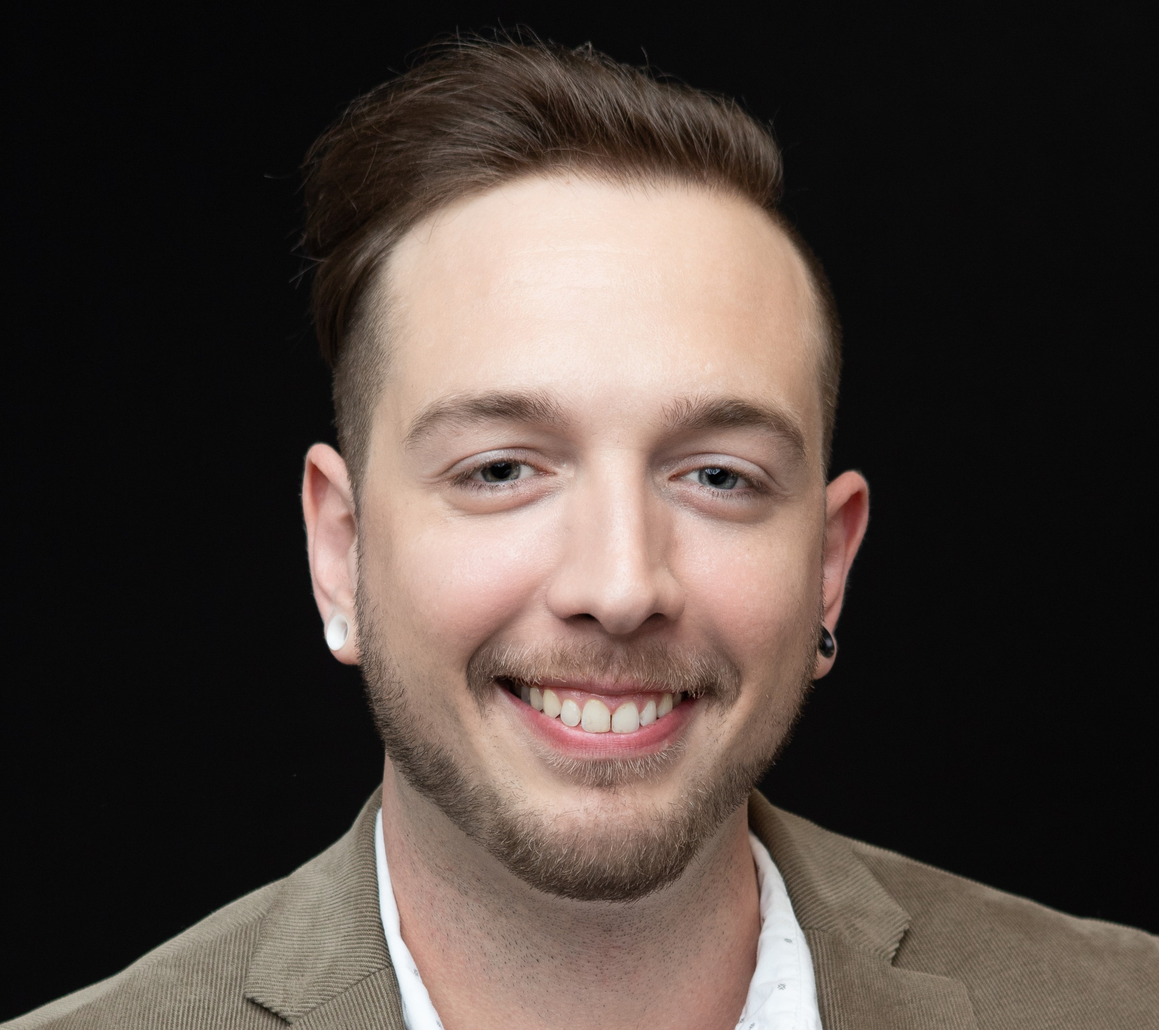
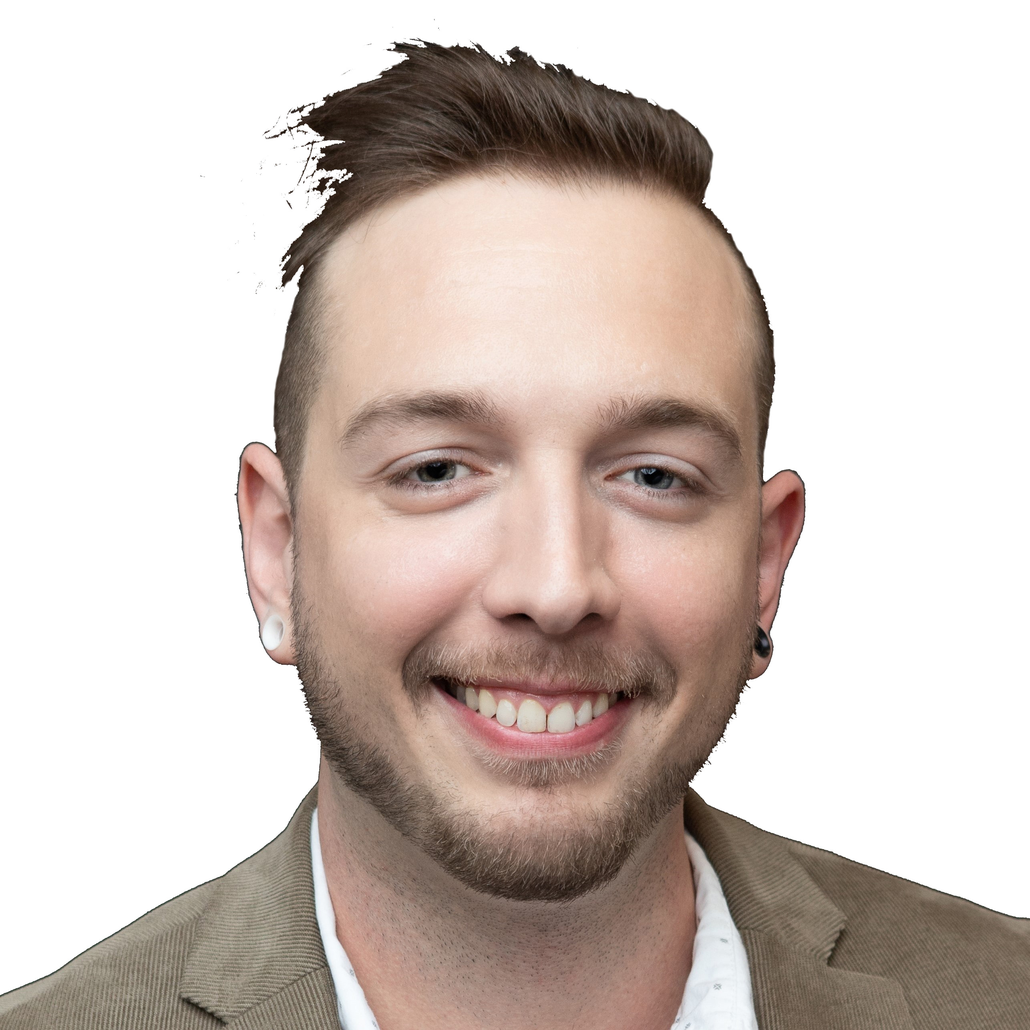
started introduction and further styling

diff --git a/docs/main.css b/docs/main.css
@@ -7,9 +7,9 @@ html {
     font: 20px/1 Lato, sans-serif;
     color: whitesmoke;
     --theme-color-orange: #ff914d;
+    --theme-color-orange_dark: #b36739;
     --theme-color-blue: #007bb6;
     --theme-color-light-blue: #38b6ff;
-    --theme-color-orange80: #ff914dbb;
     --theme-color-blue80: #007cb6b6;
     --theme-color-light-blue80: #38b6ffbb;
     --theme-color-white: rgba(255, 255, 255, 0.781);
@@ -22,22 +22,41 @@ body {
     background-size: auto;
     /* overflow: hidden; */
 }
+h1 {
+    text-align: center;
+    font-size: 2rem;
+    /* color: var(--theme-color-orange); */
+    color: white;
+    margin-bottom: 3.2rem;
+    letter-spacing: .6rem;
+    text-shadow: 0 0 30px whitesmoke;
+}
 
 .background {
     content: "";
     background: black fixed;
     opacity: 1;
+    width: 100%;
+    height: fit-content;
     top: 0;
     left: 0;
     bottom: 0;
     right: 0;
-    position: fixed;
+    position: absolute;
     z-index: -1;   
     transition-duration: 1s;
 }
 .background.show {
-    opacity: .2;
+    /* opacity: .2; */
+    background: rgba(0, 0, 0, 0.418);
     transition-duration: 1s;
+}
+
+.foreground {
+
+}
+.foreground.show{
+
 }
 
 .main-container {
@@ -89,6 +108,7 @@ body {
 
 
 .door-text-container {
+
     width: 100%;
     text-align: center;
     margin: 6rem auto;
@@ -123,8 +143,9 @@ body {
     100% {content: "WELCOME";}       
 }
 .door-text{
+    text-shadow: 0 0 2rem whitesmoke;
     color: white;
-    font-size: 1.2rem;
+    /* font-size: 14rem; */
     float: bottom;
     content: "";
 }
@@ -132,8 +153,10 @@ body {
 .door-text-animation::after{
     transition-duration: .5s;
     color: white;
+    text-shadow: 0 0 2rem whitesmoke, 0 0 2rem white;
     font-family: Lato, sans-serif;
-    letter-spacing: .3rem;
+    font-size: 2.1rem;
+    letter-spacing: .8rem;
     animation: doorText 2s linear 1s alternate;
     animation-fill-mode: forwards;
     content: "";
@@ -153,8 +176,11 @@ body {
 
 .nav-bar {
     opacity: 0;
+
+    display: flex;
+    justify-content: space-evenly;
     position: fixed;
-    top: -1rem;
+    top: -2rem;
     left: 0;
     right: 0;
     background-color: var(--theme-color-blue);
@@ -168,11 +194,39 @@ body {
     border-radius: 12px;
     z-index: 50;
 }
+.nav-bar > a {
+    cursor: pointer;
+    position: relative;
+    margin: auto;
+    padding: 1rem;
+
+    transition-duration: .1s;
+}
+
+.nav-bar > a:hover{
+    color: var(--theme-color-orange);
+    transition-duration: .2s;
+}
+
+.nav-bar > a::before{
+    content: "•";
+    position: relative;
+    left: -.6rem;
+    opacity: 0;
+    transition: .2s;
+}
+
+.nav-bar > a:hover::before {
+    left: -.2rem;
+    opacity: 100%;
+    transition: ease-out .4s;
+}
 
 .nav-bar.show {
     opacity: 100%;
     top: .5rem;
     transition: 2s ease-out;
+    transition-delay: 1.5s;
 }
 
 /* ========GENERIC SECTION========= */
@@ -180,26 +234,52 @@ body {
 
 .headshot {
     
-    
-    display: inline-block;
+    /* top: -25px; */
+    left: -220px;
     position: absolute;
     height: 150px;
-    width: 170px;
+    width: 150px;
     border-radius: 100%;
-    border: var(--theme-color-orange) solid 3px;
+    /* border: var(--theme-color-orange) solid 8px; */
+    background-color: var(--theme-color-orange);
     box-shadow: var(--box-shadow);
     z-index: 1;
 }
-.section-container {
-    overflow: hidden;
+
+.right-bubble-1 {
+    right: -220px;
+    position: absolute;
+    height: 150px;
+    width: 150px;
+    border-radius: 100%;
+    /* border: var(--theme-color-light-blue) solid 8px; */
+    background-color: var(--theme-color-light-blue);
+    box-shadow: var(--box-shadow);
+    z-index: 1;
+}
+.content-container {
+    display: flex;
     position: relative;
-    background-color: var(--theme-color-orange);
+    justify-content: center;
+    /* background-image: linear-gradient(white, var(--theme-color-orange),var(--theme-color-orange),var(--theme-color-orange), var(--theme-color-orange_dark)); */
+    background-color: white;
     box-shadow: var(--box-shadow);
     color: black;
-    width: 500px;
-    height: 500px;
-    margin: 1rem auto;
+    width: 400px;
+    height: auto;
+    margin: auto;
+    padding: 1rem 1rem;
+    border: 8px solid;
+    border-color: var(--theme-color-blue) var(--theme-color-light-blue) var(--theme-color-light-blue) var(--theme-color-blue);
+    outline: 2px black solid;
+}
+.content-container-inner {
+    
+    width: 100%;
+    height: 100%;
     padding: 2rem;
-    border: 4px black solid;
-    /* border-radius: 12px; */
+    
+    /* margin: auto; */
+    background-color: rgb(255, 255, 255);
+    border: 2px rgb(3, 2, 0) solid;
 }

diff --git a/src/index.js b/src/index.js
@@ -3,18 +3,58 @@ let doorText = document.querySelector(".door-text")
 let background = document.querySelector(".background")
 let introduction = document.querySelector(".introduction")
 let navbar = document.querySelector(".nav-bar")
+let backgroundImage = document.body.style.backgroundImage
 
 // ----DEV BUTTONS
-document.querySelector(".fade-in").addEventListener("click", () => {
-    fadeBackgroundImage("in")
-})
-document.querySelector(".fade-out").addEventListener("click", () => {
-    fadeBackgroundImage("out")
-})
-document.querySelector(".to-top").addEventListener("click", () => {
-    window.scrollTo(0, 0)
-})
+
+// document.querySelector(".fade-in").addEventListener("click", () => {
+//     fadeBackgroundImage("in")
+// })
+// document.querySelector(".fade-out").addEventListener("click", () => {
+//     fadeBackgroundImage("out")
+// })
+// document.querySelector(".to-top").addEventListener("click", () => {
+//     window.scrollTo(0, 0)
+// })
+
 // ^^^^ DEV BUTTONS
+
+
+// ==========DEV OPTIONS===========
+// fadeBackgroundImage("in")
+// setBackgroundImage('./img/textures/background-morning.png')
+// navbar.classList.add("show")
+// ================================
+
+
+
+
+
+door.addEventListener("mouseover", () => {
+    fadeBackgroundImage("in")
+    doorText.setAttribute("class", "door-text-animation")
+    door.style.animation = "door-hover 8s infinite alternate none ease-in-out";
+})
+
+// DOOR CLICK EVENT
+door.addEventListener("click", () => {
+    fadeBackgroundImage("out");
+    window.scroll({
+        top: 6017,
+        behavior: 'smooth',
+    })
+
+})
+
+window.addEventListener("scroll", () => {
+    console.log(scrollY)
+    
+    if (scrollY > 2350 && scrollY < 2800) {
+        fadeBackgroundImage("in")
+        setBackgroundImage('./img/textures/background-morning.png');
+        navbar.classList.add("show")
+       }
+})
 
 
 function fadeBackgroundImage(direction) {
@@ -34,31 +74,3 @@ function setBackgroundImage(imageUrl) {
     document.body.style.backgroundImage = `url(${imageUrl})`;
     fadeBackgroundImage("in");
 }
-let backgroundImage = document.body.style.backgroundImage
-
-
-door.addEventListener("mouseover", () => {
-    fadeBackgroundImage("in")
-    doorText.setAttribute("class", "door-text-animation")
-    door.style.animation = "door-hover 8s infinite alternate none ease-in-out";
-})
-
-door.addEventListener("click", () => {
-    fadeBackgroundImage("out");
-    introduction.scrollIntoView({
-        block: 'center',
-        inline: "center",
-        behavior: 'smooth',
-    })
-
-})
-
-window.addEventListener("scroll", () => {
-    console.log(scrollY)
-    
-    if (scrollY > 2350 && scrollY < 2800) {
-        fadeBackgroundImage("in")
-        setBackgroundImage('./img/textures/background-morning.png');
-        navbar.classList.add("show")
-       }
-})

diff --git a/docs/index.html b/docs/index.html
@@ -15,18 +15,30 @@
 
 
 <body>
-    
+
     <!-- DEV BUTTONS -->
-    <div class="button-container">
+
+    <!-- <div class="button-container">
         <button class="fade-in">Fade In</button>
         <button class="fade-out">Fade Out</button>
         <button class="to-top">Scroll to Top</button>
-    </div>
+    </div> -->
+
     <!-- /DEV BUTTONS -->
-    
+
+
+    <!-- ===========SETUP AND NAV========== -->
+
+    <div class="background">
+    <nav class="nav-bar">
+            <a>About Me</a>
+            <a>Projects</a>
+            <a>Contact Me</a>
+    </nav>
+
+
+
     <!-- ==============LANDING============= -->
-    <div class="background"></div>
-    <nav class="nav-bar">LINKS HERE</nav>
     <div class="main-container">
         <section class="door-container">
             <img class="door" src="img/Door.png">
@@ -42,13 +54,16 @@
 
 
 
-        <!-- ========INTRODUCTION SECTION===== -->
-        <img src="img/headshot/headshot_cropped.jpg" class="headshot">
-        <section class="section-container introduction">
+    <!-- ========INTRODUCTION SECTION===== -->
+    <h1>RICHARD C WILSON</h1>
+        <section class="content-container introduction">
+        <img src="img/headshot/headshot.png" class="headshot">
+        <div class="right-bubble-1"></div>
+        <span>Introduction</span>
 
-            My name is Richard! Welcome to my page.
 
         </section>
+    
 
         <div class="chunk"></div>
         <div class="chunk"></div>
@@ -56,6 +71,7 @@
 
 
 
+    </div>
     </div>
     <script src="main.js"></script>
 </body>
